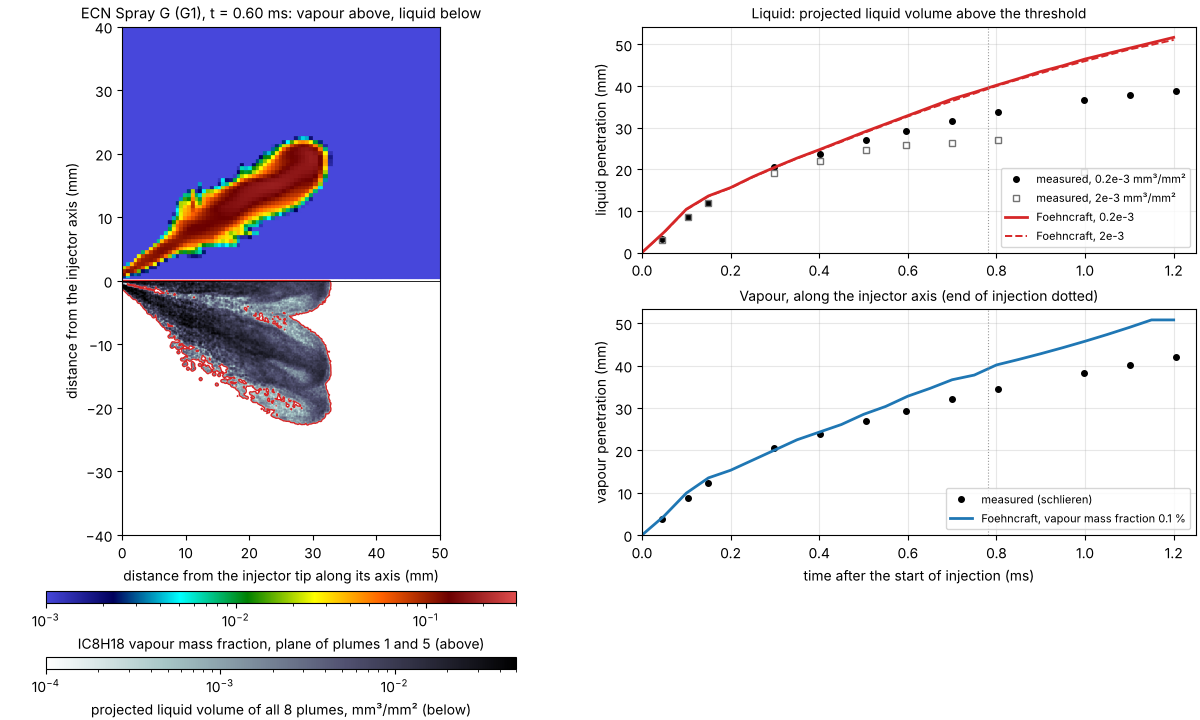
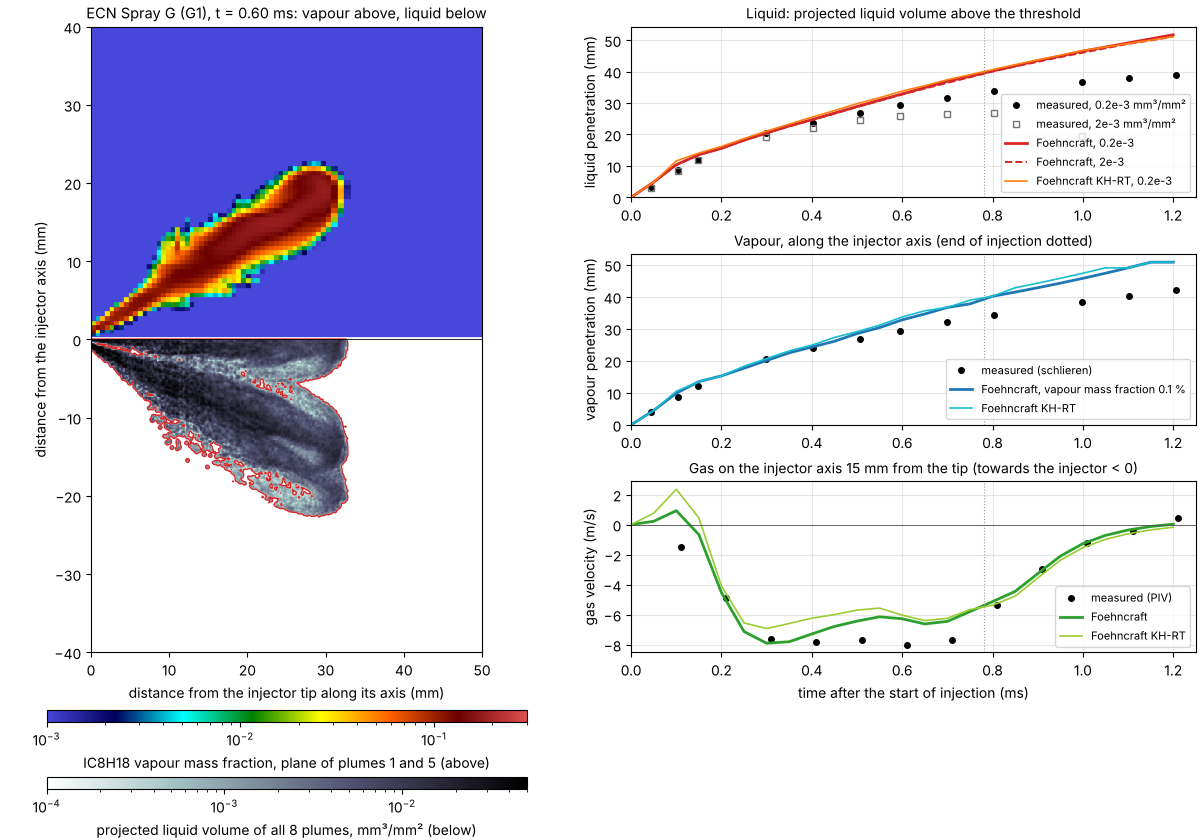
Spray G G1: KH-RT comparison and PIV axis velocity; the late lead is not from the breakup
KH-RT has drops of 7.4 um at 15 mm (measured 9 um, KH-ACT 17 um) and the
same penetration, so the lead of liquid and vapour after 0.4 ms does not
come from the breakup; the gas drawn along the injector axis matches the
PIV within 1.5 m/s. The cause stays open, recorded as a gap.

Claude-Session: https://claude.ai/code/session_012imjwp2HTAvrghYErsM9gg

diff --git a/tools/plot/spray_g_g1.py b/tools/plot/spray_g_g1.py
@@ -8,9 +8,10 @@ on the plane of plumes 1 and 5 (the sector's plane `zmin`, plume 5 by the
 symmetry of the injector), below it the projected liquid volume of all 8
 plumes seen perpendicular to that plane, as the extinction imaging of the
 ECN sees the spray, with its contour at 0.2e-3 mm³/mm²; right, the liquid
-penetration (projected liquid volume above 0.2e-3 and 2e-3 mm³/mm²) and the
-vapour penetration (vapour mass fraction above 0.1 %) over time against the
-measured ones. With a second run (the same case with
+penetration (projected liquid volume above 0.2e-3 and 2e-3 mm³/mm²), the
+vapour penetration (vapour mass fraction above 0.1 %) and the gas velocity
+on the injector axis 15 mm from the tip over time against the measured
+ones. With a second run (the same case with
 `--set spray.breakup.model=kh-rt`) its curves are drawn thin for comparison.
 The script also prints the Sauter mean diameter of the drops 15 mm from the
 tip along the injector axis, 5 to 14 mm from it, averaged over 0.2 to
@@ -25,7 +26,10 @@ at the frames nearest to the listed times; their uncertainties are below
 0.3 mm before 1 ms. The drop size: the phase-Doppler data of the ECN at
 15 mm from the tip (GM, S. Parrish, injector #16, plume 1; file
 PDI_distribution.xlsx of the Spray G data page), whose time-averaged Sauter
-mean diameter is 9 µm.
+mean diameter is 9 µm. The gas velocity on the axis: the PIV data of the
+same page ("Gas velocity at z = 15 mm, y = 0", Sandia, P. Sphicas, cited as
+Sphicas et al., SAE 2017-01-0837; file gasvel_z15.dat, column Vzt), 12
+points; negative is towards the injector.
 
     pip install matplotlib h5py numpy
     target/release/foehn flow examples/cases/flow/spray_g_g1.toml --out output/spray_g_g1
@@ -59,6 +63,10 @@ from tools.plot.vtkhdf import internal  # noqa: E402
 VAPOUR = "IC8H18"
 SNAPSHOT = 0.6  # ms, the side view
 PDI_D32 = 9.0  # µm, time-averaged Sauter mean diameter at 15 mm (ECN)
+GAS_AXIS = [  # (ms, m/s) gas velocity along the injector axis at 15 mm, PIV
+    (0.11, -1.47), (0.21, -4.86), (0.31, -7.60), (0.41, -7.81), (0.51, -7.68), (0.61, -7.99),
+    (0.71, -7.66), (0.81, -5.36), (0.91, -2.93), (1.01, -1.24), (1.11, -0.44), (1.21, 0.47),
+]
 
 # measured (ECN, see the module text): (time after the start of injection
 # in ms, penetration along the injector axis in mm)
@@ -169,6 +177,20 @@ def nearest(files, t_ms, tmap=None):
     return best
 
 
+def axis_velocity(run):
+    """(t ms, u m/s): the mean axial gas velocity of the cells next to the
+    slip core (within 0.8 mm of the axis) 14.4 to 15.6 mm from the tip."""
+    tmap = times(run)
+    out = [(0.0, 0.0)]
+    for p in sorted(glob.glob(os.path.join(run, "fields_*.vtkhdf")), key=step_of):
+        c, _, d = cells(p)
+        if "velocity_x" not in d:
+            raise SystemExit(f"{p} has no cell field `velocity_x`; it has {', '.join(sorted(d))}")
+        k = (np.abs(c[:, 0] - 0.015) < 6e-4) & (np.hypot(c[:, 1], c[:, 2]) < 8e-4)
+        out.append((tmap[step_of(p)] * 1e3, float(d["velocity_x"][k].mean())))
+    return np.array(out)
+
+
 def d32_at_15mm(run):
     """The Sauter mean diameter (µm) of the drops between 14.5 and 15.5 mm
     from the tip along the injector axis and 5 to 14 mm from it (the radial
@@ -197,8 +219,11 @@ def plot(out, run, run_rt=None):
     x, dp, n, t_p = parcels(pfile)
     img = plv_image(x, dp, n)
 
-    fig = plt.figure(figsize=(12.0, 7.2), constrained_layout=True)
-    gs = fig.add_gridspec(2, 2, width_ratios=[1.0, 1.0])
+    ua = axis_velocity(run)
+    ua_rt = axis_velocity(run_rt) if run_rt else None
+
+    fig = plt.figure(figsize=(12.0, 8.4), constrained_layout=True)
+    gs = fig.add_gridspec(3, 2, width_ratios=[1.0, 1.0])
     ax = fig.add_subplot(gs[:, 0])
     pc = PolyCollection(quads, array=np.maximum(y, 1e-5), cmap=RAINBOW, norm=LogNorm(1e-3, 0.3),
                         edgecolors="face", linewidths=0.2)
@@ -249,13 +274,27 @@ def plot(out, run, run_rt=None):
     if rt is not None:
         b.plot(rt[1][:, 0], rt[1][:, 1], color="tab:cyan", lw=1.2, label="Foehncraft KH-RT")
     b.axvline(0.78, color="0.6", lw=0.8, ls=":")
-    b.set_xlabel("time after the start of injection (ms)")
     b.set_ylabel("vapour penetration (mm)")
     b.set_xlim(0.0, 1.25)
     b.set_ylim(bottom=0.0)
     b.grid(alpha=0.3)
     b.legend(fontsize=8, loc="lower right")
     b.set_title("Vapour, along the injector axis (end of injection dotted)", fontsize=10)
+
+    g = fig.add_subplot(gs[2, 1])
+    m = np.array(GAS_AXIS)
+    g.plot(m[:, 0], m[:, 1], "o", color="k", ms=4, label="measured (PIV)")
+    g.plot(ua[:, 0], ua[:, 1], color="tab:green", lw=2.0, label="Foehncraft")
+    if ua_rt is not None:
+        g.plot(ua_rt[:, 0], ua_rt[:, 1], color="yellowgreen", lw=1.2, label="Foehncraft KH-RT")
+    g.axvline(0.78, color="0.6", lw=0.8, ls=":")
+    g.axhline(0.0, color="0.3", lw=0.6)
+    g.set_xlabel("time after the start of injection (ms)")
+    g.set_ylabel("gas velocity (m/s)")
+    g.set_xlim(0.0, 1.25)
+    g.grid(alpha=0.3)
+    g.legend(fontsize=8, loc="lower right")
+    g.set_title("Gas on the injector axis 15 mm from the tip (towards the injector < 0)", fontsize=10)
 
     path = os.path.join(out, "spray_g_g1.png")
     fig.savefig(path, dpi=100)
@@ -265,6 +304,8 @@ def plot(out, run, run_rt=None):
         print(f"liquid {t:6.3f} ms  {lo:6.2f} mm (0.2e-3)  {hi:6.2f} mm (2e-3)")
     for t, v in vap:
         print(f"vapour {t:6.3f} ms  {v:6.2f} mm")
+    for t, u in ua:
+        print(f"axis   {t:6.3f} ms  {u:6.2f} m/s")
     print(f"D32 at 15 mm, 0.2 to 1.0 ms: {d32_at_15mm(run):.1f} µm (measured {PDI_D32:.0f} µm)")
     if rt is not None:
         for (t, lo, _), (_, v) in zip(rt[0], rt[1]):

diff --git a/docs/requirements.md b/docs/requirements.md
@@ -384,7 +384,7 @@ Multi-physics topics (maintainer's order of 2026-11-16, `multiphysics-architectu
 | L20 | Compare runs | `foehn compare` of two runs, or of a run against reference data: monitors, integrals and fields with tolerances, bitwise flag in the reproducible mode of D31, verdict as JSON (D80). Reuses the pass bands of the verification cases (D68). The "check and refine" step of the Crafting Apps for a CFD result. 2026-11-15 (B3) |
 | L21 | Headless previews | PNG images of a slice, a boundary boundary or a residual plot, made without ParaView, so that a person or an agent can look at a result from a script. `tools/mesh/render_mesh.py` is a start. 2026-11-15 (B4) |
 | L22 | Deforming meshes and closed-volume compression (piston) | Requested by the maintainer (2026-11-15): compress a closed volume with a moving mesh, for example a piston compressing the air in a cylinder, with the right boundary conditions and exact mass and energy conservation (D88, D89). Needs the energy equation (L1) and a density that follows the pressure: the low-Mach variable-density form of D17 with a uniform thermodynamic pressure p₀(t) from the global mass and energy balance, which the maintainer judged sufficient for a closed volume. First case: a plain cylinder whose cell layers are all compressed evenly by the piston (every point moves axially in proportion to its distance from the head), with prescribed piston motion (table, expression D53, or crank–slider law), a moving wall with normal motion that books its work p dV, adiabatic or isothermal walls, and the geometry and swept volumes of D91. The boundary-condition check (D30) refuses a closed domain with a moving boundary in an incompressible run and explains why. General mesh motion and topology changes are decided in a dedicated discussion (O16). Valve opening in an engine gives local high-Mach flow for a short time: there the pressure correction takes the compressibility of the density (pressure-based all-speed form, Karki & Patankar 1989; Demirdžić, Lilek & Perić 1993) with a second density update per corrector and a bounded density interpolation, switched on by a local Mach-number criterion; valves and ports need sliding interfaces (L4, D58) | Verification: free-stream preservation on the moving mesh (D91); adiabatic slow compression against the isentropic result (p V^γ and T V^(γ−1) constant, the entropy rise is the numerical entropy production and goes to 0 with mesh and time step, ΔU = −∫p dV); isothermal walls (ΔU = Q_wall − W_piston, Clausius inequality ΔS ≥ ∫Q_wall/T_wall dt). Placed when L1 and the low-Mach form exist **Implemented 2026-11-25 (stage MS0, #296):** the evenly compressed cylinder with a crank (compression ratio 4) on the deforming mesh of D91 with the closed volume of stage 7c: adiabatic walls follow p₀V^γ with an error second order in Δt (6.6·10⁻⁴ at the top dead centre with 100 steps per period), walls at 300 K give an open p–V loop with the heat book closed every step; a closed volume of constant density that is compressed is refused (MOV004). Not yet: the entropy and Clausius checks of D90 as a run output, the all-speed correction for valves |
-| L12 | Discrete droplet sprays (Lagrangian) | Droplets are tracked as parcels, each standing for many identical droplets (tracking every droplet is impossible at 100+ million cells). Models in this order of priority: breakup (for example KH-RT), evaporation and heat transfer (with L1 and L2), wall films and wall interaction (an Eulerian thin film on the wall faces with parcels for everything that leaves the wall, D123, D124), collision; injection models, drag and other forces, turbulent dispersion and one-way and two-way coupling to the gas phase come with the first version. Must be parallel: parcels migrate between ranks, the load is balanced when parcels cluster, kernels run on GPU (D47). Complements the Euler–Euler and VOF multiphase of L3. *2026-11-24:* version 1 is specified in the [step 28 page](requirements/step28-sprays.md) (D240–D246: water-spray cooling first, serial release, GPU kernels from the start; D247–D254: two-way coupling independent of parcel order and thread count, implicit relaxation form with a closing step, passes inside the time step, error checks; D260: steady spray mode as stage SP2s). *Implemented 2026-11-24 (PR #242):* SP1, the one-way parcel layer: `[spray]` with an included injector file, exact exponential drag and gravity, tracking on the mesh locator, stick, rebound, escape and mirror boundaries, mass book, parcel output and restart, the parcel kernel as one CPU and GPU source. *Implemented 2026-11-25 (PR #280):* SP2a, two-way momentum coupling by D247 to D252 (`[spray.coupling]`: parcel passes as pure functions, sub-steps ending at cell faces, sorted per-cell sums, value-plus-slope sources, passes inside the time step, closing step, ledger pair, health numbers; implementation notes in the step 28 page, section 6). *Implemented 2026-11-25 (PR #283):* SP2b, two-way sensible heat (parcel temperature with exact relaxation and Ranz-Marshall, energy sources in value-plus-slope form, temperature lag in the passes, enthalpy ledger pair 2804). *Implemented 2026-11-25 (PR #285):* SP2c, eddy-lifetime dispersion (D243, `[spray] dispersion`; the continuous random walk follows behind the same key). *Implemented 2026-11-25 (PR #292):* SP2s, the steady spray mode of D260 (`[spray.steady]`: streams through the frozen steady gas, keyed per stream, sources relaxed between passes, source residual in the convergence test, ledger pairs of the final pass; no evaporation yet). *Implemented 2026-11-25 (PR #306):* SP4 and SP5, evaporation of water droplets (`[spray.evaporation]` with Ranz-Marshall or Abramzon-Sirignano, `[spray.liquid] vapour`; vapour, mass and enthalpy to the gas in value-plus-slope form with the closing step, the vapour ledger pair 2805, the saturation limiter of D253 with SPR009, evaporation in the steady mode; V28.11 partly met, gaps in the feature row `sprays.evaporation`). *2026-11-25:* what ECN Spray A needs beyond breakup is specified in the [Spray A page](requirements/step28-spray-a.md) (D310–D319, checks VA.1–VA.9, stages SA0–SA6). *Implemented 2026-11-25 (PR #314):* SA1, the Peng-Robinson droplet surface (`[spray.evaporation] equilibrium = "peng-robinson"`: surface flash with the ambient gases, latent heat from the same equation of state, the critical mixing state counted; built-in n-dodecane; feature row `sprays.high-pressure-surface`). *Implemented 2026-11-25 (PR #318):* SP6 part 1, breakup (D300 to D308 of the step 28 page, section 7): `[spray.breakup]` with KH-ACT (the owner's choice: nozzle turbulence and cavitation strip the blobs, Som and Aggarwal 2010) and KH-RT, blob injection from `hole_diameter`, `area_contraction`, a `rate` table and `flow_share`, TAB distortion with the dynamic drag, child parcels with identities from the parent (bitwise on any thread count); the eddy mirrored at symmetry planes; collision not yet. *Implemented 2026-11-26 (PR #321):* D320 and D321, the liquid property library (`[spray.liquid] library`: water, n-heptane, n-dodecane, iso-octane; vapour species NC7H16, IC8H18) and the 1/3-rule film state as the evaporation default (`[spray.evaporation] film`), single n-heptane droplets against Chauveau et al. (2019) as a recorded gap (feature row `sprays.liquid-library`). *Implemented 2026-11-26 (PR #323):* D309, ECN Spray G (G1) on a 22.5° sector of the injector (`[mesh.generate] wedge` with `dimension = 3`, a thin slip core on the axis), the injector from the ECN measurements and the ECN liquid and vapour penetration (`tools/plot/spray_g_metrics.py`); KH-ACT untuned follows the measurements to 0.4 ms and runs ahead after (33 % liquid at 1.2 ms, drops twice the measured 9 µm), a recorded gap of the row `sprays.breakup` |
+| L12 | Discrete droplet sprays (Lagrangian) | Droplets are tracked as parcels, each standing for many identical droplets (tracking every droplet is impossible at 100+ million cells). Models in this order of priority: breakup (for example KH-RT), evaporation and heat transfer (with L1 and L2), wall films and wall interaction (an Eulerian thin film on the wall faces with parcels for everything that leaves the wall, D123, D124), collision; injection models, drag and other forces, turbulent dispersion and one-way and two-way coupling to the gas phase come with the first version. Must be parallel: parcels migrate between ranks, the load is balanced when parcels cluster, kernels run on GPU (D47). Complements the Euler–Euler and VOF multiphase of L3. *2026-11-24:* version 1 is specified in the [step 28 page](requirements/step28-sprays.md) (D240–D246: water-spray cooling first, serial release, GPU kernels from the start; D247–D254: two-way coupling independent of parcel order and thread count, implicit relaxation form with a closing step, passes inside the time step, error checks; D260: steady spray mode as stage SP2s). *Implemented 2026-11-24 (PR #242):* SP1, the one-way parcel layer: `[spray]` with an included injector file, exact exponential drag and gravity, tracking on the mesh locator, stick, rebound, escape and mirror boundaries, mass book, parcel output and restart, the parcel kernel as one CPU and GPU source. *Implemented 2026-11-25 (PR #280):* SP2a, two-way momentum coupling by D247 to D252 (`[spray.coupling]`: parcel passes as pure functions, sub-steps ending at cell faces, sorted per-cell sums, value-plus-slope sources, passes inside the time step, closing step, ledger pair, health numbers; implementation notes in the step 28 page, section 6). *Implemented 2026-11-25 (PR #283):* SP2b, two-way sensible heat (parcel temperature with exact relaxation and Ranz-Marshall, energy sources in value-plus-slope form, temperature lag in the passes, enthalpy ledger pair 2804). *Implemented 2026-11-25 (PR #285):* SP2c, eddy-lifetime dispersion (D243, `[spray] dispersion`; the continuous random walk follows behind the same key). *Implemented 2026-11-25 (PR #292):* SP2s, the steady spray mode of D260 (`[spray.steady]`: streams through the frozen steady gas, keyed per stream, sources relaxed between passes, source residual in the convergence test, ledger pairs of the final pass; no evaporation yet). *Implemented 2026-11-25 (PR #306):* SP4 and SP5, evaporation of water droplets (`[spray.evaporation]` with Ranz-Marshall or Abramzon-Sirignano, `[spray.liquid] vapour`; vapour, mass and enthalpy to the gas in value-plus-slope form with the closing step, the vapour ledger pair 2805, the saturation limiter of D253 with SPR009, evaporation in the steady mode; V28.11 partly met, gaps in the feature row `sprays.evaporation`). *2026-11-25:* what ECN Spray A needs beyond breakup is specified in the [Spray A page](requirements/step28-spray-a.md) (D310–D319, checks VA.1–VA.9, stages SA0–SA6). *Implemented 2026-11-25 (PR #314):* SA1, the Peng-Robinson droplet surface (`[spray.evaporation] equilibrium = "peng-robinson"`: surface flash with the ambient gases, latent heat from the same equation of state, the critical mixing state counted; built-in n-dodecane; feature row `sprays.high-pressure-surface`). *Implemented 2026-11-25 (PR #318):* SP6 part 1, breakup (D300 to D308 of the step 28 page, section 7): `[spray.breakup]` with KH-ACT (the owner's choice: nozzle turbulence and cavitation strip the blobs, Som and Aggarwal 2010) and KH-RT, blob injection from `hole_diameter`, `area_contraction`, a `rate` table and `flow_share`, TAB distortion with the dynamic drag, child parcels with identities from the parent (bitwise on any thread count); the eddy mirrored at symmetry planes; collision not yet. *Implemented 2026-11-26 (PR #321):* D320 and D321, the liquid property library (`[spray.liquid] library`: water, n-heptane, n-dodecane, iso-octane; vapour species NC7H16, IC8H18) and the 1/3-rule film state as the evaporation default (`[spray.evaporation] film`), single n-heptane droplets against Chauveau et al. (2019) as a recorded gap (feature row `sprays.liquid-library`). *Implemented 2026-11-26 (PR #323):* D309, ECN Spray G (G1) on a 22.5° sector of the injector (`[mesh.generate] wedge` with `dimension = 3`, a thin slip core on the axis), the injector from the ECN measurements and the ECN liquid and vapour penetration (`tools/plot/spray_g_metrics.py`); KH-ACT untuned follows the measurements to 0.4 ms and runs ahead after (33 % liquid at 1.2 ms), KH-RT as well though its drops have the measured size, and the axis gas velocity matches the PIV; the cause of the lead is a recorded gap of the row `sprays.breakup` |
 | L10 | Fully compressible high-Mach flow (transonic, supersonic) | After low-Mach variable density (D17) |
 | L23 | Real gases | Cubic equations of state (Peng–Robinson, Soave–Redlich–Kwong) with departure functions consistent with D92, and real-gas properties from external sources (D103) as pre-generated 2D tables in (p, T) or (p, h) read by the GPU kernel (D96), never as library calls in the kernels. With L10 and high-pressure L2 |
 | L24 | Non-Newtonian fluids | μ(γ̇, T): power law, Carreau–Yasuda, Cross, Herschel–Bulkley (regularised after Papanastasiou). Wanted by the maintainer (2026-11-16), after milestone 1 |

diff --git a/docs/gallery/sprays.md b/docs/gallery/sprays.md
@@ -817,15 +817,16 @@ later stages.
 <a id="spray-g"></a>
 ## 323. ECN Spray G: a gasoline injector against the measurements
 
-<img src="../figures/gallery/spray_g_g1.png" alt="Left: side view of one plume of the Spray G injector at 0.6 ms, the injector tip at the left and its axis horizontal. Above the axis the iso-octane vapour mass fraction on the plane of the plume: a band leaving the tip at about 33 degrees, dark red (more than 10 percent) in its core and orange, yellow and green at its edges, ending in a rounded head about 33 mm along the axis and 20 mm from it, the rest of the plane blue. Below the axis the projected liquid volume of all eight plumes as grey shades, densest near the tip and in two lobes of the plume head, with a red outline at 0.2e-3 cubic millimetres per square millimetre ending at about 33 mm. Right top: liquid penetration over 1.2 ms; the red computed curve lies on the black measured points up to 0.4 ms and then rises almost straight to 52 mm, while the measured points bend over to 39 mm; the measured dense-liquid points (open squares) stop at 27 mm and drop after 1 ms, the computed dense-liquid curve runs with the thin one. Right bottom: vapour penetration; the blue computed curve follows the measured points to 0.4 ms and then runs above them, 51 against 42 mm at 1.2 ms. A dotted line marks the end of injection at 0.78 ms in both charts." width="1200" height="720">
+<img src="../figures/gallery/spray_g_g1.png" alt="Left: side view of one plume of the Spray G injector at 0.6 ms, the injector tip at the left and its axis horizontal. Above the axis the iso-octane vapour mass fraction on the plane of the plume: a band leaving the tip at about 33 degrees, dark red (more than 10 percent) in its core and orange, yellow and green at its edges, ending in a rounded head about 33 mm along the axis and 20 mm from it, the rest of the plane blue. Below the axis the projected liquid volume of all eight plumes as grey shades, densest near the tip and in two lobes of the plume head, with a red outline at 0.2e-3 cubic millimetres per square millimetre ending at about 33 mm. Right top: liquid penetration over 1.2 ms; the red computed curve and the thin orange KH-RT curve lie on the black measured points up to 0.4 ms and then rise almost straight to 51 to 52 mm, while the measured points bend over to 39 mm; the measured dense-liquid points (open squares) stop at 27 mm, the computed dense-liquid curve runs with the thin one. Right middle: vapour penetration; both computed curves follow the measured points to 0.4 ms and then run above them, 51 against 42 mm at 1.2 ms. Right bottom: the gas velocity on the injector axis 15 mm from the tip; the measured points and both computed curves fall from zero to about minus 7 to minus 8 metres per second (towards the injector) at 0.3 ms, stay there to 0.7 ms and return to zero at 1.2 ms, the computed curves within about 1.5 metres per second of the points. A dotted line marks the end of injection at 0.78 ms in all three charts." width="1200" height="840">
 
 `spray_g_g1.toml` is condition G1 of Spray G of the Engine Combustion
 Network: iso-octane at 363 K and 20 MPa from the 8-hole Spray G injector
 (holes of 0.165 mm) into still nitrogen at 573 K and 3.5 kg/m³, for 0.78 ms
 of injection. The measurements are the liquid penetration from extinction
 imaging and the vapour penetration from schlieren imaging at Sandia, both
-along the injector axis (Hwang et al. 2020), and the drop size at 15 mm
-from the tip by phase-Doppler interferometry at GM. The case uses the
+along the injector axis (Hwang et al. 2020), the gas velocity on the axis
+by PIV (Sphicas et al. 2017), and the drop size 15 mm from the tip by
+phase-Doppler interferometry at GM. The case uses the
 breakup model of gallery 318 (KH-ACT, k-ε, two-way coupling) with the
 library liquid iso-octane and the evaporation of Abramzon and Sirignano in
 the 1/3-rule film (gallery 321).
@@ -866,31 +867,42 @@ injection, 33 % at 1.2 ms (51.7 against 38.9 mm). The vapour follows the
 same course: 20.1 against 20.5 mm at 0.3 ms, 32.8 against 29.4 mm at
 0.6 ms, 50.8 against 42.0 mm at 1.2 ms. The computed dense liquid runs with
 the thin liquid, while the measured dense liquid stops at 27 mm and is gone
-after 1 ms: the computed spray reaches its tip still dense.
+after 1 ms.
 
-**Why: the drops are twice as large.** 15 mm from the tip, in the radial
+**The gas the plumes draw in is right.** The 8 plumes draw the gas between
+them towards the injector along its axis. 15 mm from the tip the PIV of
+the ECN measures −7.6 to −8.0 m/s from 0.3 to 0.7 ms and a return to zero
+by 1.1 ms; the run gives −7.9 m/s at 0.3 ms, −6.1 to −6.6 m/s at 0.5 to
+0.7 ms and the same return, within about 1.5 m/s of the measurement.
+
+**The drop size is not the cause.** 15 mm from the tip, in the radial
 range of the phase-Doppler scan, the computed Sauter mean diameter is
-17 µm over 0.2 to 1.0 ms; the measured one is 9 µm. Larger drops keep their
-momentum longer and evaporate more slowly, so the liquid runs ahead and
-carries the vapour with it. In KH-ACT the cavitation and the nozzle
-turbulence strip the blobs here, and their children have the radius of the
-cavity, r_hole (1 − C_a)^½ = 49 µm with C_a = 0.65, and of the integral
-length scale of the turbulence (7 µm at the exit, growing as it decays).
-Both scales are large for the short hole of Spray G (length about one
-diameter). Magnotti (2017) reported the same direction for KH-ACT at gas
-densities below 7 kg/m³, little better than KH alone, and pointed to a
-smaller turbulence scale for the children.
+17 µm over 0.2 to 1.0 ms; the measured one is 9 µm. In KH-ACT the
+cavitation and the nozzle turbulence strip the blobs here, and their
+children have the radius of the cavity, r_hole (1 − C_a)^½ = 49 µm with
+C_a = 0.65, and of the integral length scale of the turbulence (7 µm at the
+exit, growing as it decays). Both are large for the short hole of Spray G
+(length about one diameter); Magnotti (2017) reported KH-ACT little better
+than KH below 7 kg/m³ and pointed to a smaller turbulence scale. The same
+case with `--set spray.breakup.model=kh-rt` (thin curves) has drops of
+7.4 µm at 15 mm, close to the measurement, and still reaches 51.1 mm of
+liquid and 50.8 mm of vapour at 1.2 ms. The cause of the late lead lies in
+the far field of the gas jet or in the evaporation of the dense plume, not
+in the breakup: candidates are the cells, which grow from 0.6 mm to 2.5 mm
+beyond 30 mm and are 2.8° wide, the gas density, which stays that of the
+ambient nitrogen while a cooled plume full of vapour is denser, and the
+constants of the k-ε model. We have not found it yet.
 
 **What is checked.** The sector mesh: its volume against the exact volume
 of the faceted sector to 10⁻¹², closed cells, and the refusal of
 tetrahedra and `perturb` (mesh tests). The run against the measurements
 above. The coupling converges in every step (`max_passes = 8`, about 4
-passes on average). The run takes about 18 minutes on 4 threads; the long
+passes on average). Each run takes about 18 minutes on 4 threads; the long
 CI set runs the first 0.1 ms. The metrics script has no tests of its own.
 
-**What this version does not do.** The KH-ACT constants are not
-calibrated to G1, and the child size of the cavitation and the turbulence
-is a property of the model, so the run is a gap, not a match. The gas
+**What this version does not do.** The penetration after 0.4 ms is a gap,
+not a match, and its cause is open (above). KH-ACT makes drops twice the
+measured size here. The KH-ACT constants are not calibrated to G1. The gas
 density stays that of the ambient nitrogen (the vapour changes the
 properties, not the density). There are no collisions and no wall film,
 and the penetration far from the tip is limited by the cell size (2.5 mm

diff --git a/docs/features.md b/docs/features.md
@@ -162,7 +162,7 @@ validated range, one mesh only, …) in its report and its JSON result.
 - **Turbulent dispersion of the sprays (SP2c).** `[spray] dispersion = "eddy-lifetime"` (Gosman and Ioannides): Gaussian eddies of variance 2k/3 with lifetime and crossing time, keyed per parcel and eddy so runs stay bitwise reproducible on any thread count; tracers spread as the exact random walk to 1.3 % ([gallery 285](gallery/sprays.md#spray-dispersion)).
 - **Steady spray mode (SP2s).** In a steady case `[spray.steady]` follows droplet streams through the frozen gas and hands it relaxed momentum and heat sources every few outer iterations; the run is converged only when the gas and the source residual are, the ledger pairs cancel to the bit, and the streams are keyed so runs are bitwise equal on any thread count. The spray-cooled duct converges in 14 s and comes within 3 % of the transient run's heat ([gallery 292](gallery/sprays.md#spray-steady)).
 - **Evaporating sprays (SP4, SP5).** `[spray.evaporation]` (Ranz-Marshall or Abramzon-Sirignano) lets water droplets evaporate into a vapour species of `[species]`: d² law and wet-bulb relaxation inside each sub-step, vapour, mass and enthalpy as implicit sources of the gas with the same passes and closing step, the vapour ledger pair cancelling to the bit, and a counted saturation limiter as a safety net. A closed box of air and water ends at the exact adiabatic saturation; 4000 droplets in one nearly saturated cell never oversaturate it and give the same bits on 1 and 4 threads. In the steady mode the duct with more water than the air can take saturates, but its source residual stalls at about 0.1 ([gallery 306](gallery/sprays.md#spray-evaporation)).
-- **Spray breakup (SP6).** `[spray.breakup]` breaks fuel jets into drops: blobs from the nozzle hole (`hole_diameter`, `area_contraction`, a measured `rate` table), stripped into child parcels by the nozzle turbulence, the cavitation or the Kelvin-Helmholtz waves, whichever is fastest (KH-ACT, Som and Aggarwal 2010; `kh-rt` without the nozzle terms), Rayleigh-Taylor breakup beyond the breakup length, and the TAB distortion that raises the drag of a drop towards a disc's. The liquid is kept to round-off at every split and the results are the same bits on any thread count. A 60 MPa diesel-like spray reaches the penetration of the Hiroyasu-Arai correlation within 1 % at 1 ms ([gallery 318](gallery/sprays.md#spray-breakup)). On ECN Spray G (G1, a 22.5° sector of the 8-hole injector, `wedge` with `dimension = 3`) the untuned model follows the measured liquid and vapour penetration to 0.4 ms and then runs ahead, 33 % (liquid) and 21 % (vapour) at 1.2 ms, with drops twice the measured size ([gallery 323](gallery/sprays.md#spray-g)).
+- **Spray breakup (SP6).** `[spray.breakup]` breaks fuel jets into drops: blobs from the nozzle hole (`hole_diameter`, `area_contraction`, a measured `rate` table), stripped into child parcels by the nozzle turbulence, the cavitation or the Kelvin-Helmholtz waves, whichever is fastest (KH-ACT, Som and Aggarwal 2010; `kh-rt` without the nozzle terms), Rayleigh-Taylor breakup beyond the breakup length, and the TAB distortion that raises the drag of a drop towards a disc's. The liquid is kept to round-off at every split and the results are the same bits on any thread count. A 60 MPa diesel-like spray reaches the penetration of the Hiroyasu-Arai correlation within 1 % at 1 ms ([gallery 318](gallery/sprays.md#spray-breakup)). On ECN Spray G (G1, a 22.5° sector of the 8-hole injector, `wedge` with `dimension = 3`) the untuned model follows the measured liquid and vapour penetration to 0.4 ms and then runs ahead, 33 % (liquid) and 21 % (vapour) at 1.2 ms, with KH-RT as well, while the gas the plumes draw along the axis matches the PIV ([gallery 323](gallery/sprays.md#spray-g)).
 - **High-pressure droplet surface (Spray A, SA1).** `[spray.evaporation] equilibrium = "peng-robinson"` replaces Raoult's law at the droplet surface by the Peng-Robinson phase equilibrium of the fuel with the ambient gases, with the latent heat from the same equation, zero at the critical mixing state (counted parcels). Built-in n-dodecane: vapour pressure within 1 % of measurements up to 655 K, measured N₂ bubble points within 2.7 % on average; at 6 MPa the surface holds 1.5 to 1.9 times Raoult's fuel vapour. The Spray A flow case follows with the breakup model ([gallery 314](gallery/sprays.md#spray-a-surface)).
 - **Liquid property library and film state (D320, D321).** `[spray.liquid] library` takes water, n-heptane, n-dodecane or iso-octane with temperature-dependent vapour pressure, density, specific heat, latent heat, surface tension and viscosity (fits to the NIST WebBook tables; iso-octane to published correlations), with the vapour species NC7H16 and IC8H18. The evaporation takes the gas properties of the droplet film by the 1/3 rule from the species data (default `[spray.evaporation] film = "one-third"`), which halves the error against measured n-heptane droplets: +16 to +59 % against Chauveau et al. instead of +93 to +99 % with far-field properties, a gap shared by this model class ([gallery 321](gallery/sprays.md#spray-liquid-library)).
 - **Adjoint, first stage (L17 A0).** The steady residual R(q) of SIMPLEC and the coupled solver as one callable (`Flow::steady_residual`, steady laminar flow), and the scatter-free reverse sweep of the momentum face kernel from local dual-number Jacobians, checked by a dot-product test and finite differences; the adjoint solve itself follows in A1 ([gallery 271](gallery/verification.md#adjoint-a0)).

diff --git a/docs/cases/flow.md b/docs/cases/flow.md
@@ -350,7 +350,7 @@ in volumes, in `datums.csv` and `spray_hist_<datum>.csv`.
 | `flow/spray_heptane_evaporation.toml` | generated hex 2D, 100 × 20 cells | an n-heptane spray (D320, D321): 1 g/s of the library liquid `n-heptane` at 300 K (10 to 80 µm, `flow/spray_heptane_evaporation_injectors.toml`, vapour `NC7H16`) into nitrogen at 600 K and 5 m/s, Abramzon-Sirignano with the 1/3-rule film; the droplets evaporate within about 5 cm, the gas leaves at 312 °C with 1.7 % vapour | [gallery 321](../gallery/sprays.md#spray-liquid-library), [recipe 321](../recipes/sprays.md#spray-liquid-library) |
 | `flow/spray_saturation_steady.toml` | generated hex 2D, 60 × 12 cells | V28.11 in the steady spray mode: 2 g/s of water at 310 K from six nozzles (`flow/spray_saturation_injectors.toml`) in 17.6 g/s of air at 400 K, three times what the air can take; the air saturates within 5 cm, the outlet is at 309.3 K and Y = 0.0375 against the exact 310.1 K and 0.0395; the source residual stalls at about 0.12 (SPR008, SPR009; a gap) | [gallery 306b](../gallery/sprays.md#spray-saturation), [recipe 306](../recipes/sprays.md#spray-evaporation) |
 | `flow/spray_breakup.toml` | generated hex 3D, 100 × 16 × 16 cells (a quarter of the chamber, graded to the axis) | breakup (SP6): a diesel-like fuel at 60 MPa through a 0.15 mm hole (`flow/spray_breakup_injectors.toml`: rate table, C_a 0.86, L/d 4, C_d 0.8) into nitrogen at rest at 15 kg/m³, KH-ACT blobs with TAB distortion and dynamic drag, two-way, k-ε; 97 % of the liquid at 50.6 mm after 1 ms (Hiroyasu and Arai: 51.1 mm), 47.0 mm with `kh-rt`; about 4 minutes on 4 threads (long set) | [gallery 318](../gallery/sprays.md#spray-breakup), [recipe 318](../recipes/sprays.md#spray-breakup) |
-| `flow/spray_g_g1.toml` | generated hex 3D, 72 × 65 × 8 cells, a 22.5° sector about the injector axis (`wedge` with `dimension = 3`, D309) with a 0.3 mm slip core on the axis | ECN Spray G, condition G1: iso-octane (library liquid) at 363 K and 20 MPa from the 8-hole injector (`flow/spray_g_g1_injectors.toml`: the measured rate of injection, plume at 33°, cone 25°, C_a 0.65, `flow_share = 0.5`) into nitrogen at 573 K and 3.5 kg/m³, KH-ACT untuned, Abramzon-Sirignano evaporation, two-way, k-ε; the liquid and vapour penetration along the injector axis by the ECN definitions against the measurements: on them to 0.4 ms, then ahead, 33 % (liquid) and 21 % (vapour) at 1.2 ms, the drops twice the measured 9 µm; about 18 minutes on 4 threads (long set, to 0.1 ms) | [gallery 323](../gallery/sprays.md#spray-g), [recipe 323](../recipes/sprays.md#spray-g-sector) |
+| `flow/spray_g_g1.toml` | generated hex 3D, 72 × 65 × 8 cells, a 22.5° sector about the injector axis (`wedge` with `dimension = 3`, D309) with a 0.3 mm slip core on the axis | ECN Spray G, condition G1: iso-octane (library liquid) at 363 K and 20 MPa from the 8-hole injector (`flow/spray_g_g1_injectors.toml`: the measured rate of injection, plume at 33°, cone 25°, C_a 0.65, `flow_share = 0.5`) into nitrogen at 573 K and 3.5 kg/m³, KH-ACT untuned, Abramzon-Sirignano evaporation, two-way, k-ε; the liquid and vapour penetration along the injector axis by the ECN definitions against the measurements: on them to 0.4 ms, then ahead, 33 % (liquid) and 21 % (vapour) at 1.2 ms, the same with `kh-rt`; the axis gas velocity within 1.5 m/s of the PIV; about 18 minutes on 4 threads (long set, to 0.1 ms) | [gallery 323](../gallery/sprays.md#spray-g), [recipe 323](../recipes/sprays.md#spray-g-sector) |
 
 ## Porous regions
 

diff --git a/changelog.d/323-spray-g-g1.md b/changelog.d/323-spray-g-g1.md
@@ -1,1 +1,1 @@
-- **ECN Spray G, condition G1 (D309).** `[mesh.generate] wedge` now also takes `dimension = 3`: it revolves a 3D box of hexahedra about the x axis into a sector, with the z intervals as the angular cells and `zmin`, `zmax` as ordinary side planes (tetrahedra and `perturb` are refused). The new case `spray_g_g1` computes one eighth of the 8-hole Spray G injector on a 22.5° sector: iso-octane at 363 K and 20 MPa into nitrogen at 573 K and 3.5 kg/m³, with the injector from the ECN measurements (rate of injection, plume direction 33°, cone 25°, C_a 0.65) and KH-ACT with its default constants. A thin slip core of 0.3 mm on the axis replaces the prisms that meet there; their faces have a skewness of 5, and they made the first runs unstable at 0.13 ms. `tools/plot/spray_g_metrics.py` measures the spray as the ECN does: the projected liquid volume of all 8 plumes along the line of sight of the extinction imaging, above 0.2e-3 and 2e-3 mm³/mm², and the vapour above 0.1 %. Against the measurements the liquid is on the measured curve to 0.4 ms and then runs ahead, 33 % at 1.2 ms (51.7 against 38.9 mm); the vapour is 21 % ahead at 1.2 ms. The drops at 15 mm are about twice the measured 9 µm: the children of the cavitation and of the integral turbulence scale of KH-ACT are large for the short Spray G hole. This is recorded as a gap. Gallery 323, recipe 323.
+- **ECN Spray G, condition G1 (D309).** `[mesh.generate] wedge` now also takes `dimension = 3`: it revolves a 3D box of hexahedra about the x axis into a sector, with the z intervals as the angular cells and `zmin`, `zmax` as ordinary side planes (tetrahedra and `perturb` are refused). The new case `spray_g_g1` computes one eighth of the 8-hole Spray G injector on a 22.5° sector: iso-octane at 363 K and 20 MPa into nitrogen at 573 K and 3.5 kg/m³, with the injector from the ECN measurements (rate of injection, plume direction 33°, cone 25°, C_a 0.65) and KH-ACT with its default constants. A thin slip core of 0.3 mm on the axis replaces the prisms that meet there; their faces have a skewness of 5, and they made the first runs unstable at 0.13 ms. `tools/plot/spray_g_metrics.py` measures the spray as the ECN does: the projected liquid volume of all 8 plumes along the line of sight of the extinction imaging, above 0.2e-3 and 2e-3 mm³/mm², and the vapour above 0.1 %. Against the measurements the liquid is on the measured curve to 0.4 ms and then runs ahead, 33 % at 1.2 ms (51.7 against 38.9 mm); the vapour is 21 % ahead at 1.2 ms. The gas the plumes draw towards the injector along its axis matches the PIV of the ECN within about 1.5 m/s. KH-ACT makes drops of 17 µm at 15 mm against the measured 9 µm (its cavitation and turbulence children are large for the short Spray G hole); KH-RT makes 7.4 µm, yet penetrates as far, so the late lead does not come from the breakup. Its cause is open and recorded as a gap. Gallery 323, recipe 323.

diff --git a/docs/requirements/step28-sprays.md b/docs/requirements/step28-sprays.md
@@ -609,12 +609,15 @@ area contraction, plume direction and cone) and the distortion of the drops.
   the liquid penetration (0.2e-3 mm³/mm²) within 1 mm of the measured one
   up to 0.4 ms, then ahead, 12 % at 0.6 ms, 19 % at the end of injection,
   33 % at 1.2 ms (51.7 against 38.9 mm); the vapour 32.8 against 29.4 mm at
-  0.6 ms and 50.8 against 42.0 mm at 1.2 ms; the Sauter mean diameter at
-  15 mm 17 µm against the measured 9 µm. The children of the cavitation
-  (R_CAV = r_hole (1 − C_a)^½ = 49 µm) and of the integral turbulence scale
-  are large for the short Spray G hole; Magnotti (2017) reported KH-ACT
-  little better than KH below 7 kg/m³ and pointed to a smaller turbulence
-  scale. A recorded gap, not calibrated.
+  0.6 ms and 50.8 against 42.0 mm at 1.2 ms; the gas velocity on the
+  injector axis 15 mm from the tip within about 1.5 m/s of the PIV of the
+  ECN. The Sauter mean diameter at 15 mm is 17 µm against the measured
+  9 µm: the children of the cavitation (R_CAV = r_hole (1 − C_a)^½ =
+  49 µm) and of the integral turbulence scale are large for the short
+  Spray G hole (Magnotti 2017 reported KH-ACT little better than KH below
+  7 kg/m³ and pointed to a smaller turbulence scale). KH-RT gives 7.4 µm
+  and the same penetration, so the late lead is not from the breakup; its
+  cause is open, a recorded gap.
 
 ### 7.2 Not yet
 
@@ -623,10 +626,11 @@ mean diameter near 2 µm, small next to measured diesel sprays); a size distribu
 fragment model for slow drops is a candidate); breakup in the steady mode;
 temperature-dependent surface tension and viscosity (with the liquid
 property library); radial velocity of the children (they leave with the
-blob's velocity); GPU entry of the breakup kernel. For Spray G (G1): the drop
-size of the KH-ACT children (the liquid and vapour run ahead of the
-measurements after 0.4 ms), a calibration of the constants against G1, the
-gas density of the vapour (the case keeps the ambient density), and a run
+blob's velocity); GPU entry of the breakup kernel. For Spray G (G1): the cause
+of the late lead of the liquid and the vapour (the far-field cells, the
+gas density of the cooled plume with its vapour, the k-ε constants), the
+drop size of the KH-ACT children, a calibration of the constants against
+G1, and a run
 whose gas diverges in some cells can fill the memory with the exchange
 records of parcels that spend `max_substeps` instead of stopping with a
 message.

diff --git a/docs/verification/DATA_SOURCES.md b/docs/verification/DATA_SOURCES.md
@@ -295,6 +295,16 @@ are not stored.
   and velocity at z = 15 mm", GM, S. Parrish, injector #16, plume 1, file
   `PDI_distribution.xlsx`): the time-averaged Sauter mean diameter of
   9 µm, quoted by the plot script. Measurements, D201 accepted class.
+- Gas velocity on the injector axis 15 mm from the tip: the PIV data of
+  the same page ("Gas velocity at z = 15 mm, y = 0", Sandia, P. Sphicas,
+  file `gasvel_z15.dat`, column Vzt), cited as Sphicas, P., Pickett,
+  L. M., Skeen, S., Frank, J., Lucchini, T., Sinoir, D., D'Errico, G.,
+  Saha, K., Som, S. (2017), A comparison of experimental and modeled
+  velocity in gasoline direct-injection sprays with plume interaction and
+  collapse, SAE Int. J. Fuels Lubr. 10(1), 184-201,
+  doi:10.4271/2017-01-0837 (as listed in the references of OSTI 2427994);
+  12 points quoted by the plot script. Their model settings are not used
+  (D201). Measurements, D201 accepted class.
 - Turbulence scale of KH-ACT at low gas density (a finding quoted in the
   gallery text, no numbers taken): Magnotti, G. M. (2017), Modeling the
   influence of nozzle-generated turbulence on diesel sprays, PhD thesis,

diff --git a/docs/recipes/sprays.md b/docs/recipes/sprays.md
@@ -594,7 +594,8 @@ above 0.1 % vapour.
 
 ```sh
 foehn flow examples/cases/flow/spray_g_g1.toml --out output/spray_g_g1
-python3 -m tools.plot.spray_g_g1 OUT_DIR output/spray_g_g1   # the picture of gallery 323
+foehn flow examples/cases/flow/spray_g_g1.toml --set spray.breakup.model=kh-rt --out output/spray_g_g1_khrt
+python3 -m tools.plot.spray_g_g1 OUT_DIR output/spray_g_g1 output/spray_g_g1_khrt   # gallery 323
 ```
 
 Case: `examples/cases/flow/spray_g_g1.toml` with its injector file;
